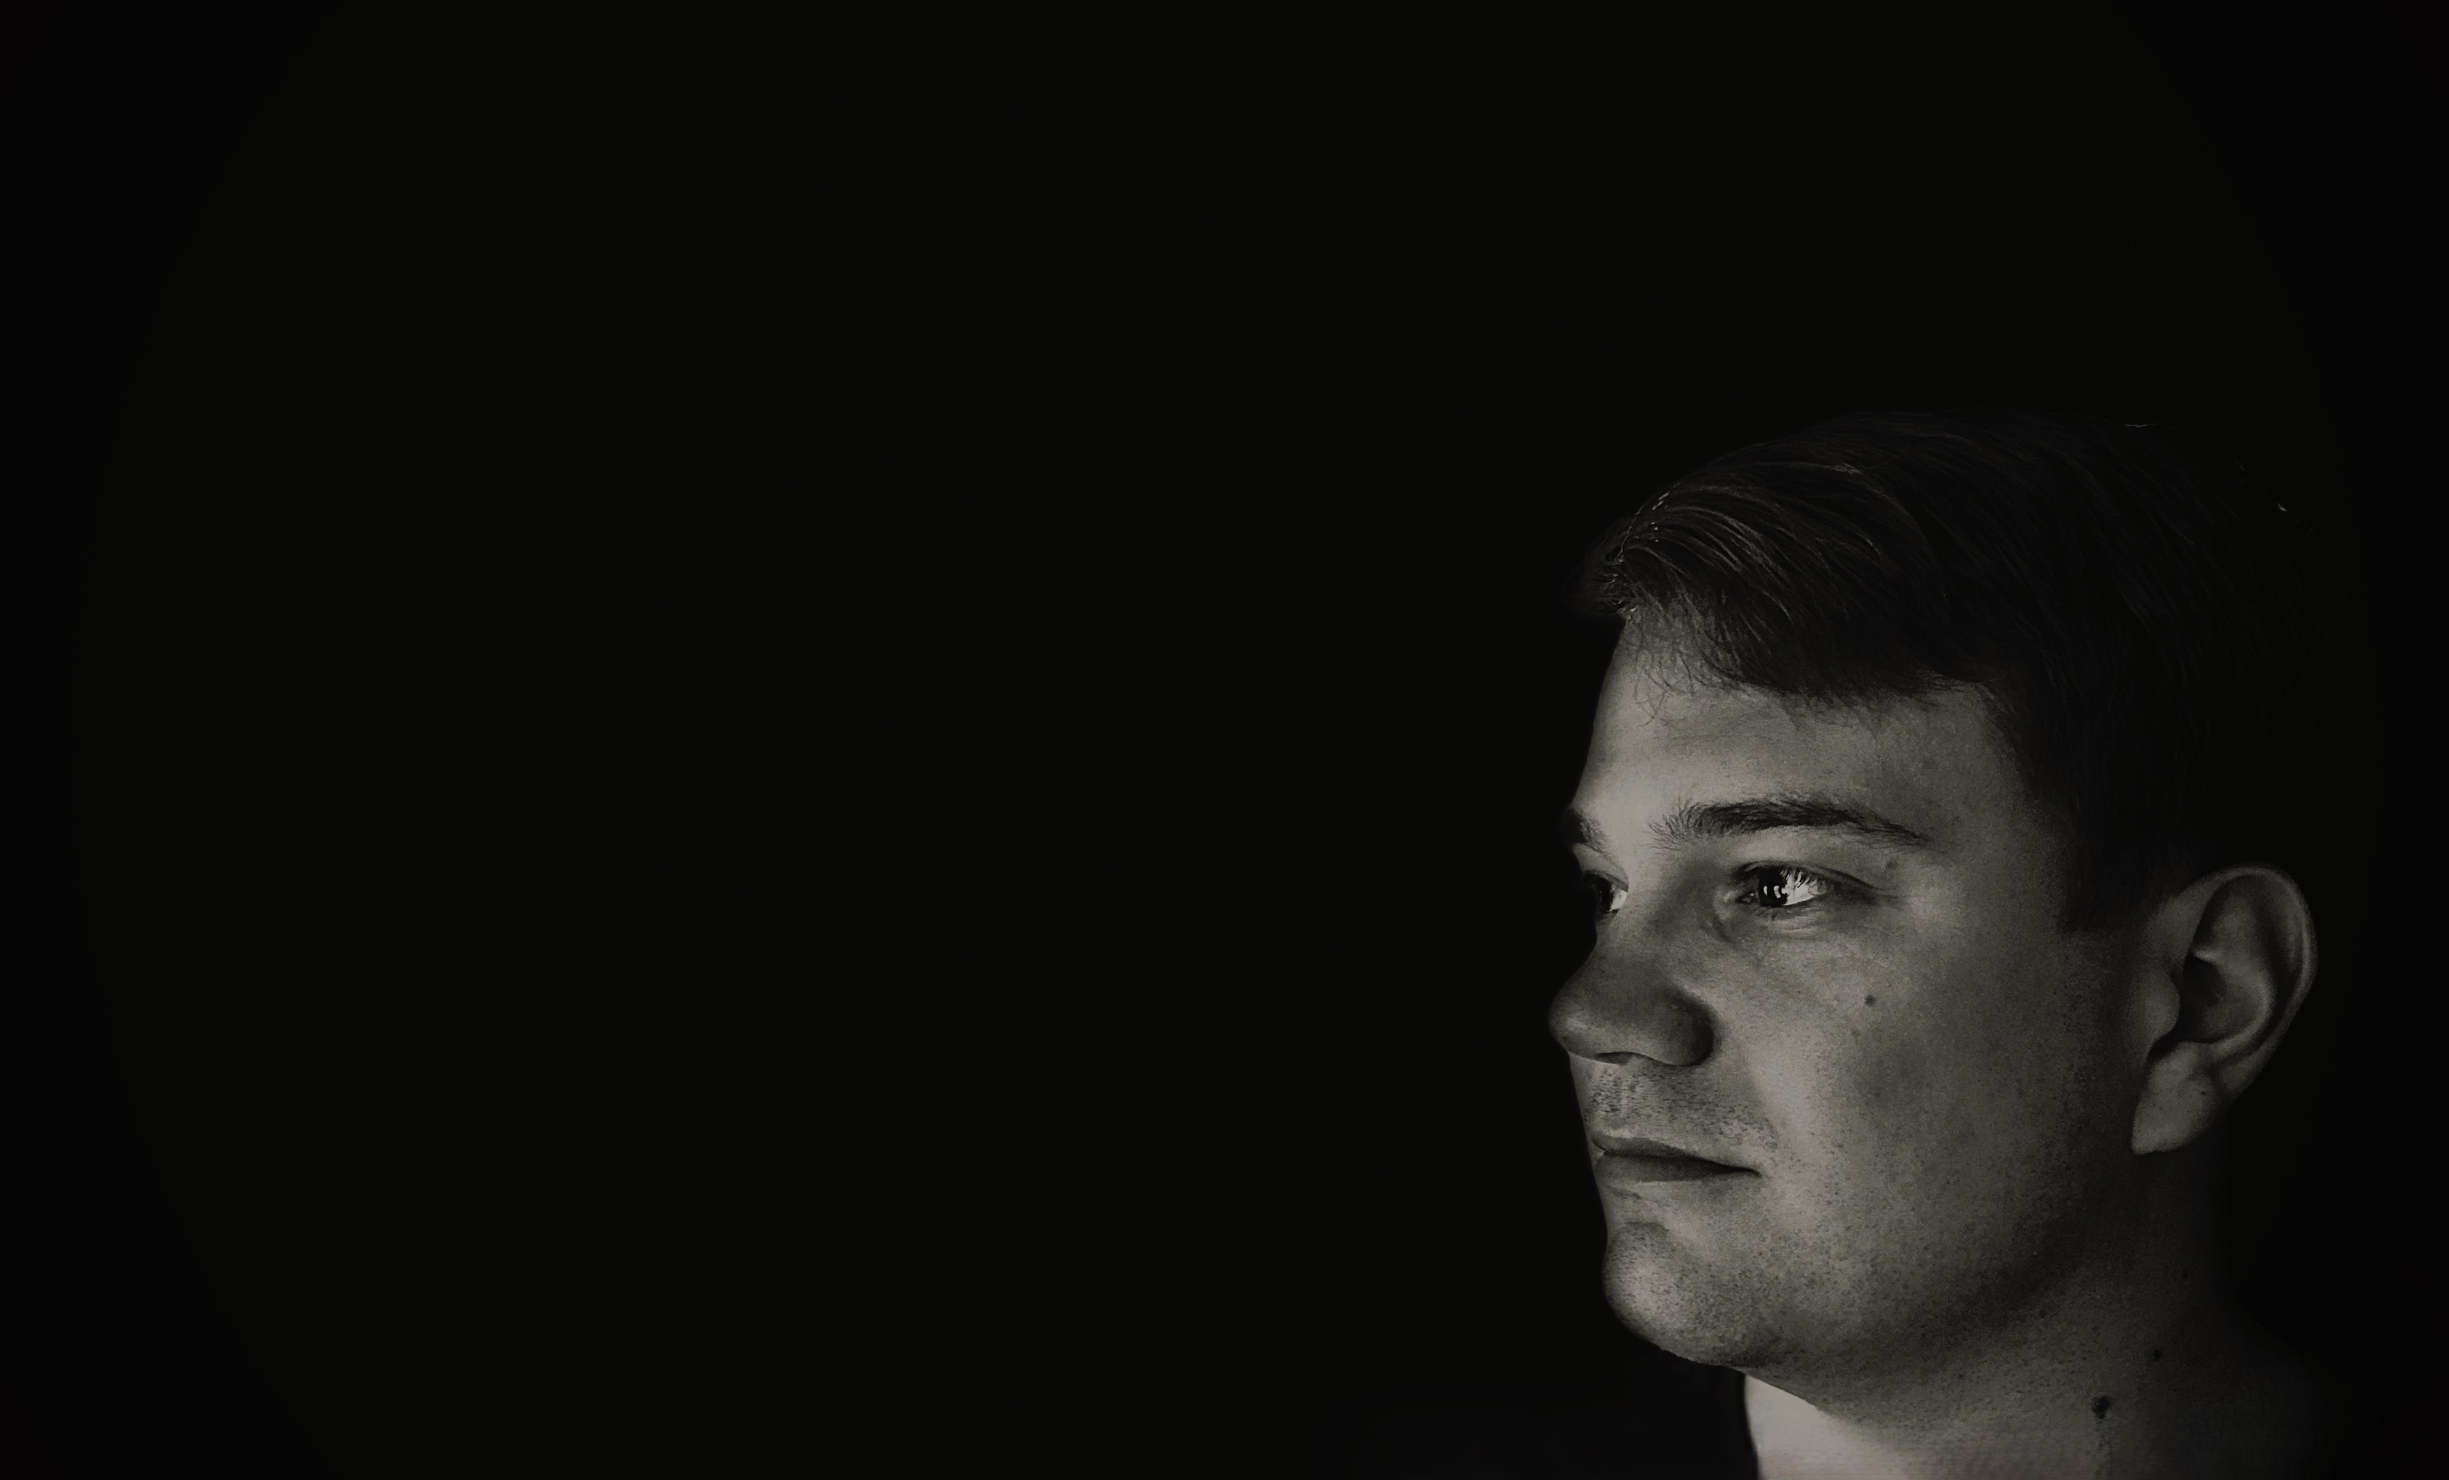
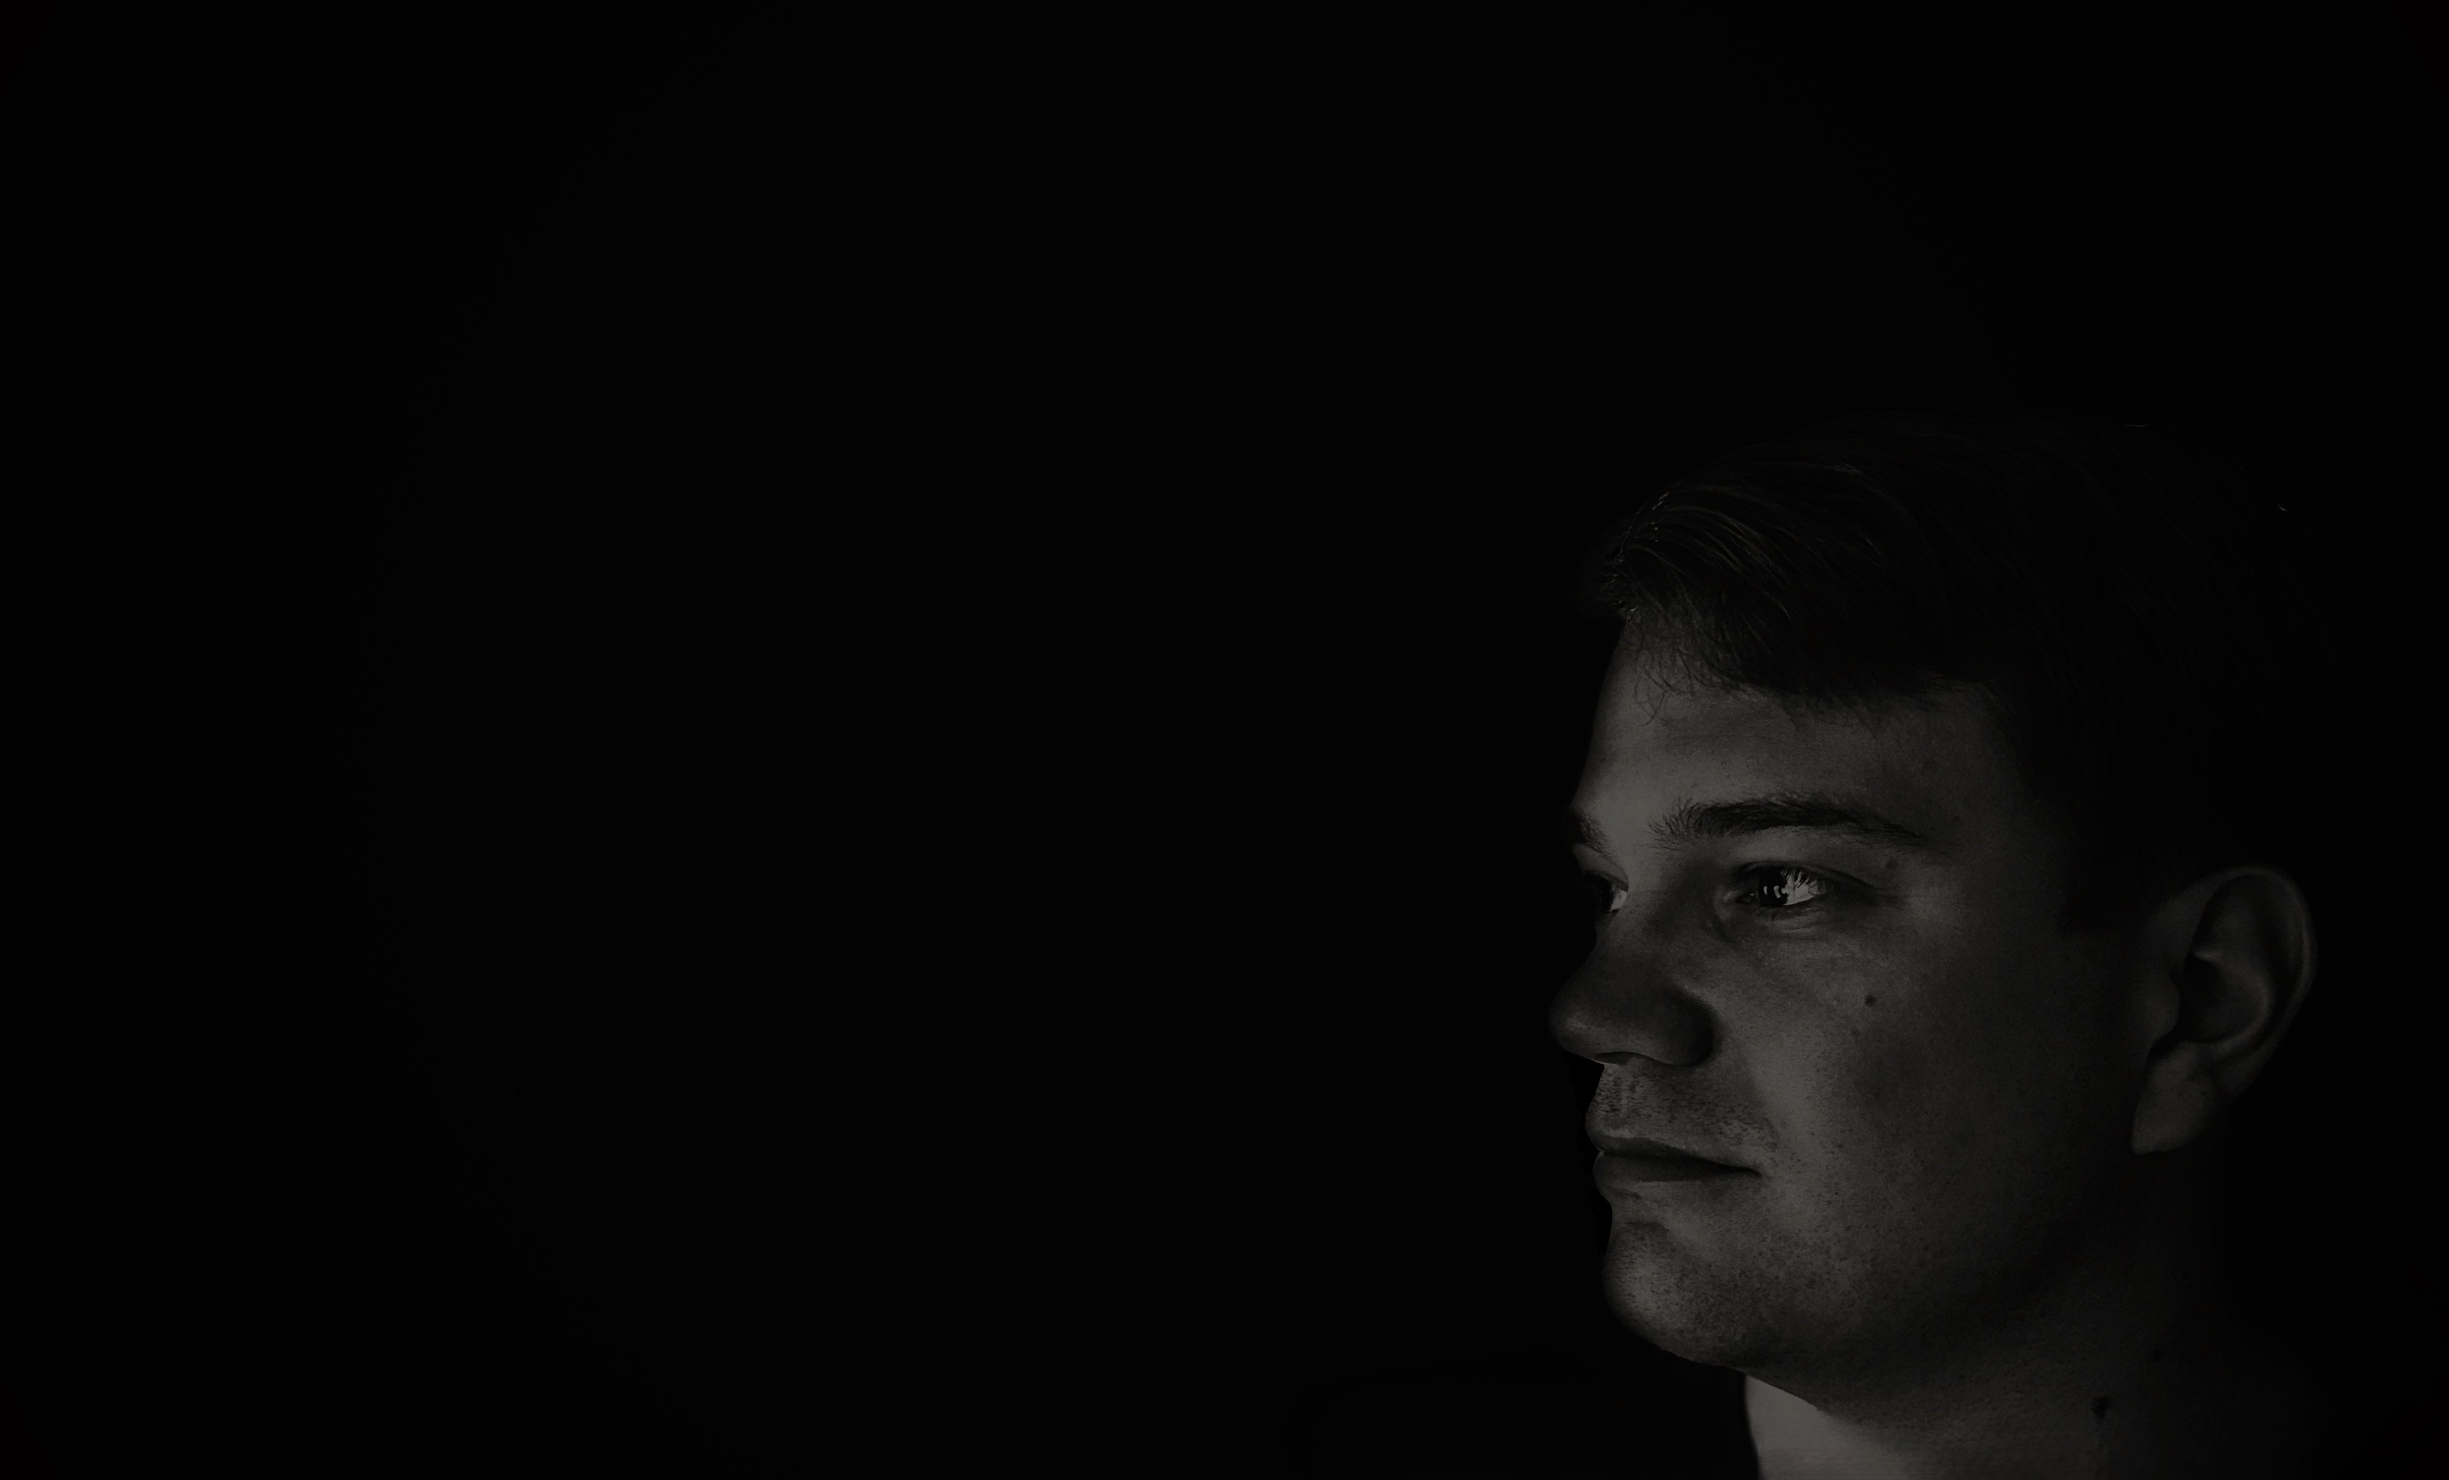
added dicee dir and fixed html cards responsiveness

Changed region(s): [[0.6203, 0.4056, 0.9615, 1.0]]

diff --git a/index.html b/index.html
@@ -54,6 +54,7 @@
 
     <section class="portfolio py-5 text-center container" id="portfolio">
         <div class="album py-5">
+            <h1 class="album-h1">C & C++</h1>
             <div class="container">
         
               <div class="row row-cols-1 row-cols-sm-2 row-cols-md-3 g-3">
@@ -64,7 +65,7 @@
                       <h5 class="card-title">C++ modules</h5>
                       <p class="card-text">The C++ modules are 10 sets of exercises to introduce the basic
                         properties of object-oriented programming, such as classes, 
-                        inheritance, templates and containers.</p>                      
+                        inheritance, templates, algorithms and containers.</p>                      
                         <div class="mt-auto d-flex justify-content-center">
                             <div class="btn-group">
                               <a href="https://github.com/svolain/cpp-modules" target=”_blank”>
@@ -80,7 +81,7 @@
                     <img src="images/c-logo.png" class="card-img-top" alt="c logo">
                     <div class="card-body">
                       <h5 class="card-title">Cub3d</h5>
-                        <p class="card-text">A 3D game made by using raycasting and minimalistic C graphichs 
+                        <p class="card-text">A 3D game made by implemnting raycasting and minimalistic C graphichs 
                         library 42mlx. The style and graphics of the game has been done by 
                         using Wolfenstein 3D as a reference.</p>
                         <div class="mt-auto d-flex justify-content-center">
@@ -98,8 +99,8 @@
                     <img src="images/c-logo.png" class="card-img-top" alt="c logo">
                     <div class="card-body">
                         <h5 class="card-title">Minishell</h5>
-                        <p class="card-text">A simple shell made in C-language. Supports redirections, 
-                            pipes, environment variables and several builtins. Bash as a 
+                        <p class="card-text">A simple shell made in C language. Supports builtins, redirections, 
+                            pipes and environment variables. Bash used as a 
                             reference and mimic it's behaviour as closesly as possible.</p>
                         <div class="mt-auto d-flex justify-content-center">
                             <div class="btn-group">
@@ -116,8 +117,8 @@
                       <img src="images/c-logo.png" class="card-img-top" alt="c logo">
                       <div class="card-body">
                         <h5 class="card-title">Philosophers</h5>
-                        <p class="card-text">Solving the Dining philosophers problem. This 
-                            project is about the basics of threading a process and using 
+                        <p class="card-text">Solving the classic Dining philosophers problem. The goal of 
+                            the project was to learn the basics of multi threading a process and using 
                             mutexes to prevent data races.</p>
                         <div class="mt-auto d-flex justify-content-center">
                             <div class="btn-group">
@@ -136,8 +137,8 @@
                       <div class="card-body">
                         <h5 class="card-title">Libft</h5>
                         <p class="card-text">A Library with my own versions of basic C functions. The 
-                            goal is to understand C standard library functions; the way they 
-                            work, as well as learning the C syntax.</p>
+                            goal was to understand C standard library functions; the way they 
+                            work, learning the syntax and memory management.</p>
                         <div class="mt-auto d-flex justify-content-center">
                             <div class="btn-group">
                                 <a href="https://github.com/svolain/libft" target=”_blank”>
@@ -152,9 +153,10 @@
                     <div class="card shadow-sm blue-bg">
                       <img src="images/c-logo.png" class="card-img-top" alt="c logo">
                       <div class="card-body">
-                        <h5 class="Push_Swap">Push_Swap</h5>
-                        <p class="card-text">This program sorts data on a stack. To achieve this 
-                            goal it has to use various types of algorithms for an optimized data sorting.</p>
+                        <h5 class="push-swap">Push_Swap</h5>
+                        <p class="card-text">This program sorts data on a stack with a very limited set of instructions. 
+                            To achieve this goal it uses various algorithm types depending the stack size 
+                            for an optimized data sorting.</p>
                         <div class="mt-auto d-flex justify-content-center">
                             <div class="btn-group">
                                 <a href="https://github.com/svolain/push_swap" target=”_blank”>

diff --git a/style.css b/style.css
@@ -59,24 +59,13 @@ html {
 .home {
     min-height: 100vh;
     width: 100%;
+    background: url(images/home_bg.jpeg) no-repeat center bottom;
+    background-size: cover;
     display: flex;
     flex-direction: column;
     justify-content: center;
     padding: 0 10%;
     box-sizing: border-box;
-}
-
-.home::before {
-        content: '';
-        position: absolute;
-        top: 0;
-        left: 0;
-        width: 100%;
-        height: 100%;
-        background: url(images/home_bg.jpeg) no-repeat center bottom;
-        background-size: cover;
-        opacity: 0.3;
-        z-index: -1;
 }
 
 .home-content {
@@ -112,7 +101,7 @@ html {
     height: 100%;
     background: #070705;
     animation: showRight 1s ease forwards;
-    animation-delay: .5s;
+    animation-delay: 0.1s;
 }
 
 .home-content .btn-box {
@@ -198,9 +187,21 @@ html {
     width: 40vw;
 }
 
-.card {
-    min-height: 100vh;
+.album-h1 {
+    font-size: 4rem;
+    margin-bottom: 40px;
+    padding-bottom: 20px;
+    border-bottom: 1px solid #ebebeb;
 }
+
+.card {
+    max-height: 80vh;
+    min-height: 50vh;
+}
+
+.card p {
+    font-size: calc(9px + 0.3vw);;
+} 
 
 .card-img-top {
     height: 200px;

diff --git a/dicee/index.js b/dicee/index.js
@@ -1,0 +1,29 @@
+window.onload = function() {
+    if (sessionStorage.getItem('pageLoadedBefore') === 'true') {
+        var randomNumber1 = Math.random();
+        randomNumber1 *= 6; 
+        randomNumber1 = Math.floor(randomNumber1) + 1;
+
+        var randomNumber2 = Math.random();
+        randomNumber2 *= 6; 
+        randomNumber2 = Math.floor(randomNumber2) + 1;
+
+        var firstDice = document.getElementsByClassName('img1')[0];
+        var secondDice = document.getElementsByClassName('img2')[0];
+        var newDices = ["images/dice" + randomNumber1 + ".png", "images/dice" + randomNumber2 + ".png"];
+        firstDice.setAttribute("src", newDices[0]);
+        secondDice.setAttribute("src", newDices[1]);
+
+        h1Element = document.querySelector('h1');
+
+        if (randomNumber1 > randomNumber2) {
+            h1Element.innerHTML = "Player 1 wins!";
+        } else if (randomNumber1 < randomNumber2) {
+            h1Element.innerHTML = "Player 2 wins!";
+        } else {
+            h1Element.innerHTML = "It's a draw!";
+        }
+    } else {
+        sessionStorage.setItem('pageLoadedBefore', 'true');
+    }
+};

diff --git a/dicee/dicee.html b/dicee/dicee.html
@@ -1,0 +1,37 @@
+<!DOCTYPE html>
+<html lang="en" dir="ltr">
+  <head>
+    <meta charset="utf-8" />
+    <title>Dicee</title>
+    <link rel="stylesheet" href="styles.css" />
+    <link
+      href="https://fonts.googleapis.com/css?family=Indie+Flower|Lobster"
+      rel="stylesheet"
+    />
+  </head>
+  <body>
+    <div class="container">
+      <h1>Let's play Dicee</h1>
+      
+      <div class="play">
+        <button onClick="window.location.reload();">
+          Click to play
+        </button>
+      </div>
+
+      <div class="dice">
+        <p>Player 1</p>
+        <img class="img1" src="images/dice6.png" />
+      </div>
+
+      <div class="dice">
+        <p>Player 2</p>
+        <img class="img2" src="images/dice6.png" />
+      </div>
+    </div>
+
+    <footer>🎲 svolain 🎲</footer>
+
+    <script src="index.js"></script>
+  </body>
+</html>

diff --git a/dicee/styles.css b/dicee/styles.css
@@ -1,0 +1,49 @@
+.container {
+  width: 70%;
+  margin: auto;
+  text-align: center;
+}
+
+.dice {
+  text-align: center;
+  display: inline-block;
+
+}
+
+body {
+  background-color: #070705;
+}
+
+h1 {
+  margin: 30px;
+  font-family: 'Lobster', cursive;
+  text-shadow: 5px 0 #232931;
+  font-size: 8rem;
+  color: #00abf0;
+}
+
+p {
+  font-size: 2rem;
+  color: #00abf0;
+  font-family: 'Indie Flower', cursive;
+}
+
+img {
+  width: 80%;
+}
+
+footer {
+  margin-top: 5%;
+  color: #EEEEEE;
+  text-align: center;
+  font-family: 'Indie Flower', cursive;
+
+}
+
+button {
+  background-color: #070705;
+  color: #00abf0;
+  font-family: 'Lobster', cursive;
+  font-size: 2rem;
+  border-color: #00abf0;
+}
